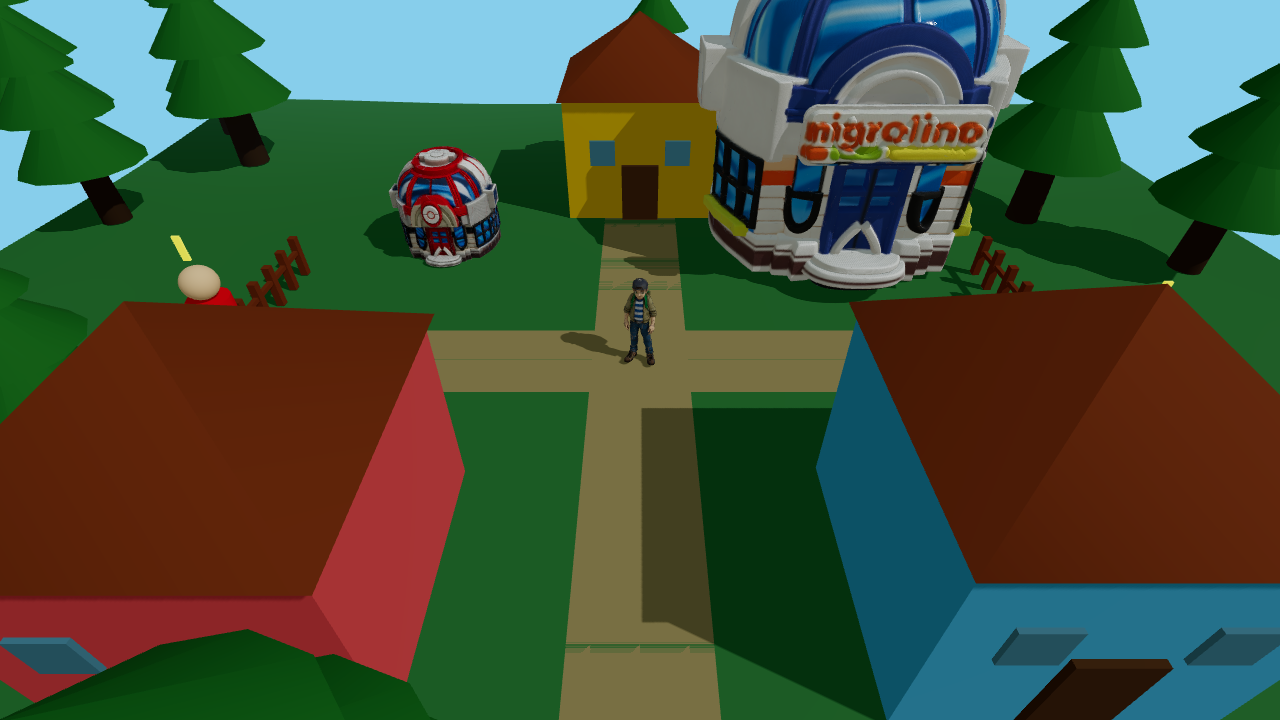
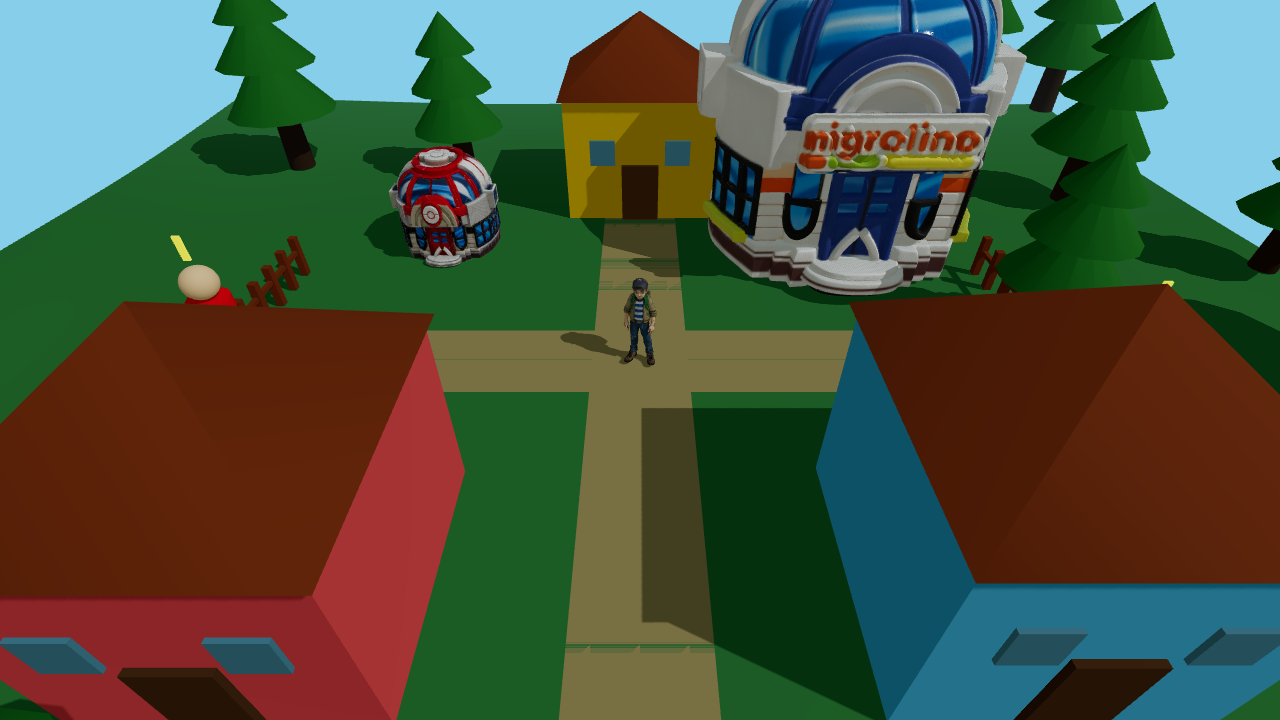
Fix building and house placement to prevent floating above ground

diff --git a/rpg-game.js b/rpg-game.js
@@ -885,7 +885,10 @@ export class RPGGame {
             const gltf = await this.loadGLTF(`modelli_3D/${filename}`);
             const building = gltf.scene;
             building.scale.set(scale, scale, scale);
-            building.position.set(x, 0, z);
+            
+            // Position at origin first to calculate bounding box correctly
+            building.position.set(0, 0, 0);
+            building.updateWorldMatrix(true, true);
             
             building.traverse((child) => {
                 if (child.isMesh) {
@@ -897,18 +900,28 @@ export class RPGGame {
             building.userData.type = 'building';
             building.userData.id = id;
             building.userData.interactable = true;
+            
+            // Calculate bounding box to find the bottom of the model
             const boundingBox = new THREE.Box3().setFromObject(building);
-            let baseHeight = -boundingBox.min.y;
-            if (!Number.isFinite(baseHeight) || baseHeight < 0.05) {
-                baseHeight = 0.5;
-            }
-            building.userData.baseHeight = baseHeight;
-            this.placeEntityOnGround(building, x, z, y);
+            // The offset needed to place the building's bottom at y=0
+            // boundingBox.min.y is the lowest point of the model
+            const yOffset = -boundingBox.min.y;
+            
+            // Store a baseHeight of 0 since we're manually calculating the offset
+            building.userData.baseHeight = 0;
+            
+            // Get ground height at target position
+            const groundHeight = this.getGroundHeight ? this.getGroundHeight(x, z) : 0;
+            
+            // Position building so its bottom sits on the ground
+            // Add the extraHeight (y parameter) on top
+            building.position.set(x, groundHeight + yOffset + y, z);
+            building.updateWorldMatrix(true, true);
             
             this.addToCurrentMap(building);
             this.registerCollider(building, 0.6);
             this.buildings[id] = building;
-            console.log(`✓ ${id} caricato`);
+            console.log(`✓ ${id} caricato (yOffset: ${yOffset.toFixed(2)})`);
             return building;
         } catch (error) {
             console.error(`Errore caricamento ${filename}:`, error);
@@ -919,6 +932,7 @@ export class RPGGame {
         const houseGroup = new THREE.Group();
         
         // Walls - larger and more detailed
+        // Height 10, positioned so bottom is at y=0 in local space
         const wallGeometry = new THREE.BoxGeometry(12, 10, 12);
         const wallMaterial = new THREE.MeshStandardMaterial({ 
             color: color,
@@ -926,6 +940,7 @@ export class RPGGame {
             metalness: 0.2
         });
         const walls = new THREE.Mesh(wallGeometry, wallMaterial);
+        walls.position.y = 5; // Move walls up so bottom is at y=0
         walls.castShadow = true;
         walls.receiveShadow = true;
         houseGroup.add(walls);
@@ -937,7 +952,7 @@ export class RPGGame {
             roughness: 0.9
         });
         const roof = new THREE.Mesh(roofGeometry, roofMaterial);
-        roof.position.y = 7.5;
+        roof.position.y = 12.5; // Adjusted for walls now at y=5 center (top at y=10) + roof half height
         roof.rotation.y = Math.PI / 4;
         roof.castShadow = true;
         houseGroup.add(roof);
@@ -949,7 +964,7 @@ export class RPGGame {
             roughness: 0.9
         });
         const door = new THREE.Mesh(doorGeometry, doorMaterial);
-        door.position.set(0, -2.5, 6.15);
+        door.position.set(0, 2.5, 6.15); // Door bottom at y=0, center at y=2.5
         houseGroup.add(door);
         
         // Windows
@@ -961,21 +976,19 @@ export class RPGGame {
         });
         
         const window1 = new THREE.Mesh(windowGeometry, windowMaterial);
-        window1.position.set(-3, 1, 6.1);
+        window1.position.set(-3, 6, 6.1); // Windows at reasonable height
         houseGroup.add(window1);
         
         const window2 = new THREE.Mesh(windowGeometry, windowMaterial);
-        window2.position.set(3, 1, 6.1);
+        window2.position.set(3, 6, 6.1);
         houseGroup.add(window2);
 
-        houseGroup.position.set(x, 0, z);
-        const boundingBox = new THREE.Box3().setFromObject(houseGroup);
-        let baseHeight = -boundingBox.min.y;
-        if (!Number.isFinite(baseHeight) || baseHeight < 0.05) {
-            baseHeight = 0.5;
-        }
-        houseGroup.userData.baseHeight = baseHeight;
-        this.placeEntityOnGround(houseGroup, x, z, y);
+        // Get ground height at target position
+        const groundHeight = this.getGroundHeight ? this.getGroundHeight(x, z) : 0;
+        
+        // Position house so its bottom sits on the ground
+        houseGroup.position.set(x, groundHeight + y, z);
+        houseGroup.userData.baseHeight = 0;
         houseGroup.userData.type = 'building';
         houseGroup.userData.id = 'house';
         houseGroup.userData.interactable = true;

diff --git a/screenshot-test-report.md b/screenshot-test-report.md
@@ -1,6 +1,6 @@
 # Automated Screenshot Test Report
 
-Generated: 2025-11-24T22:55:44.655Z
+Generated: 2025-11-25T10:08:25.378Z
 
 ## Summary
 
